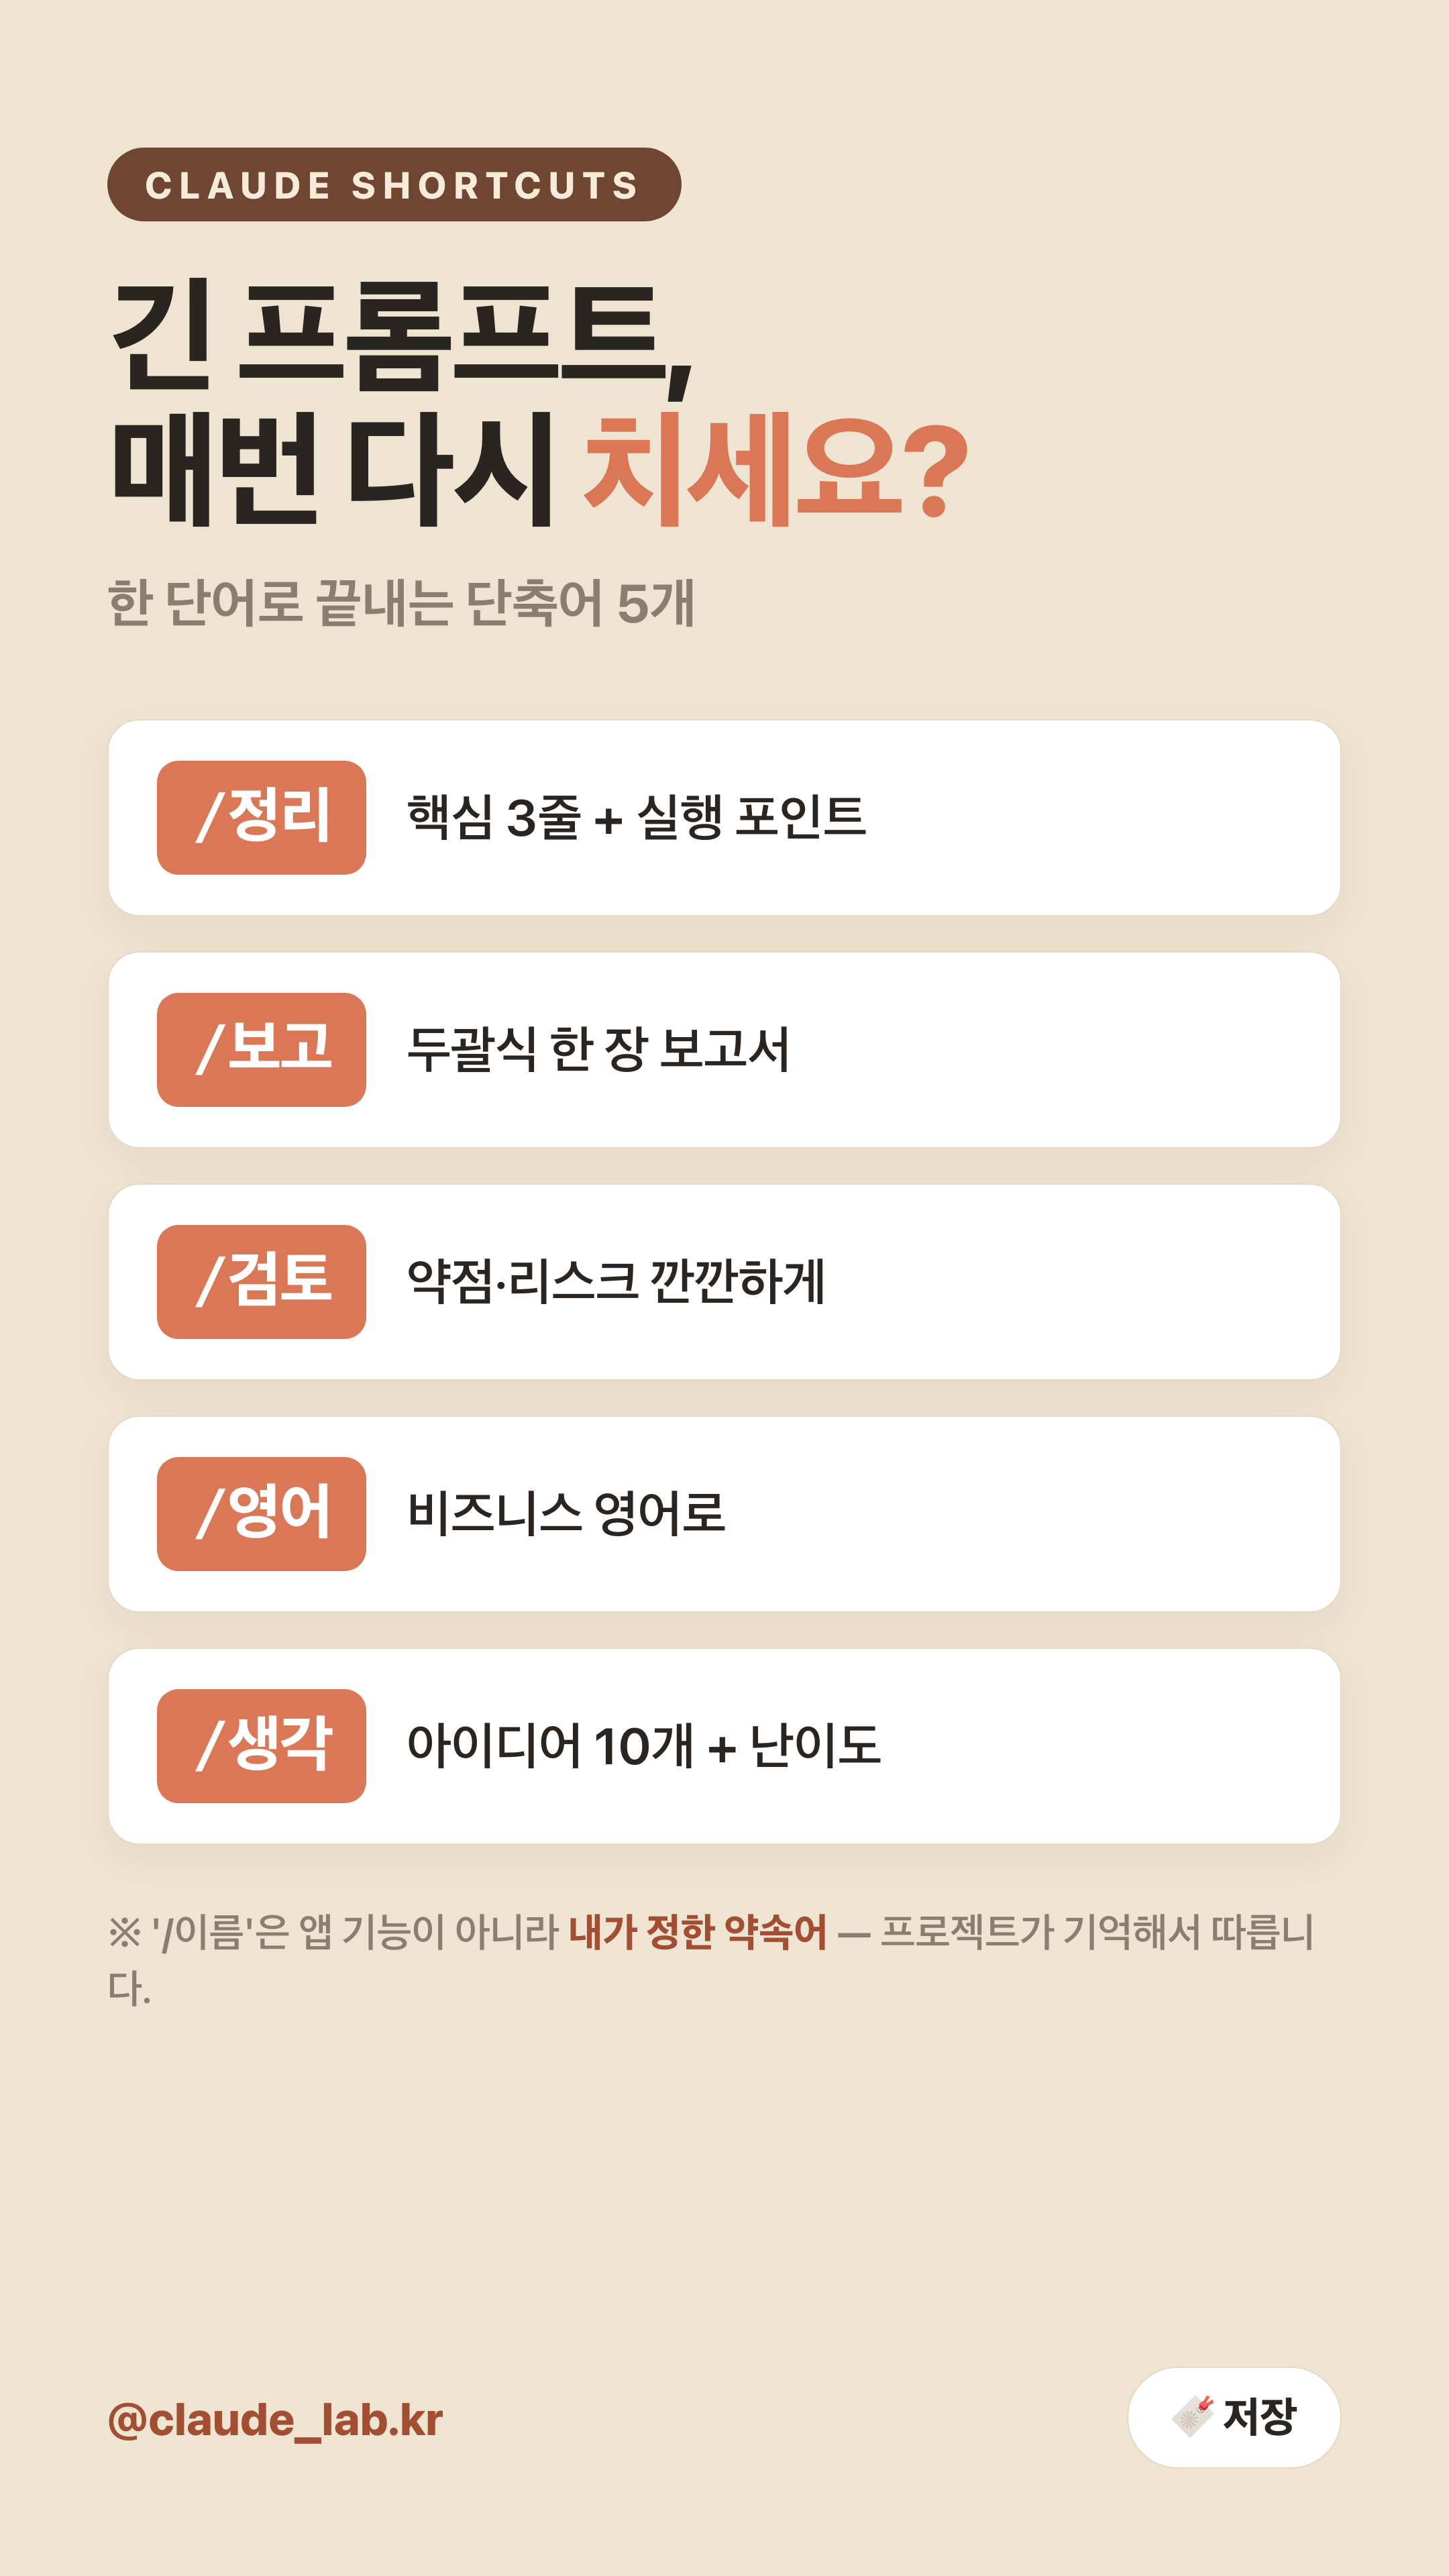
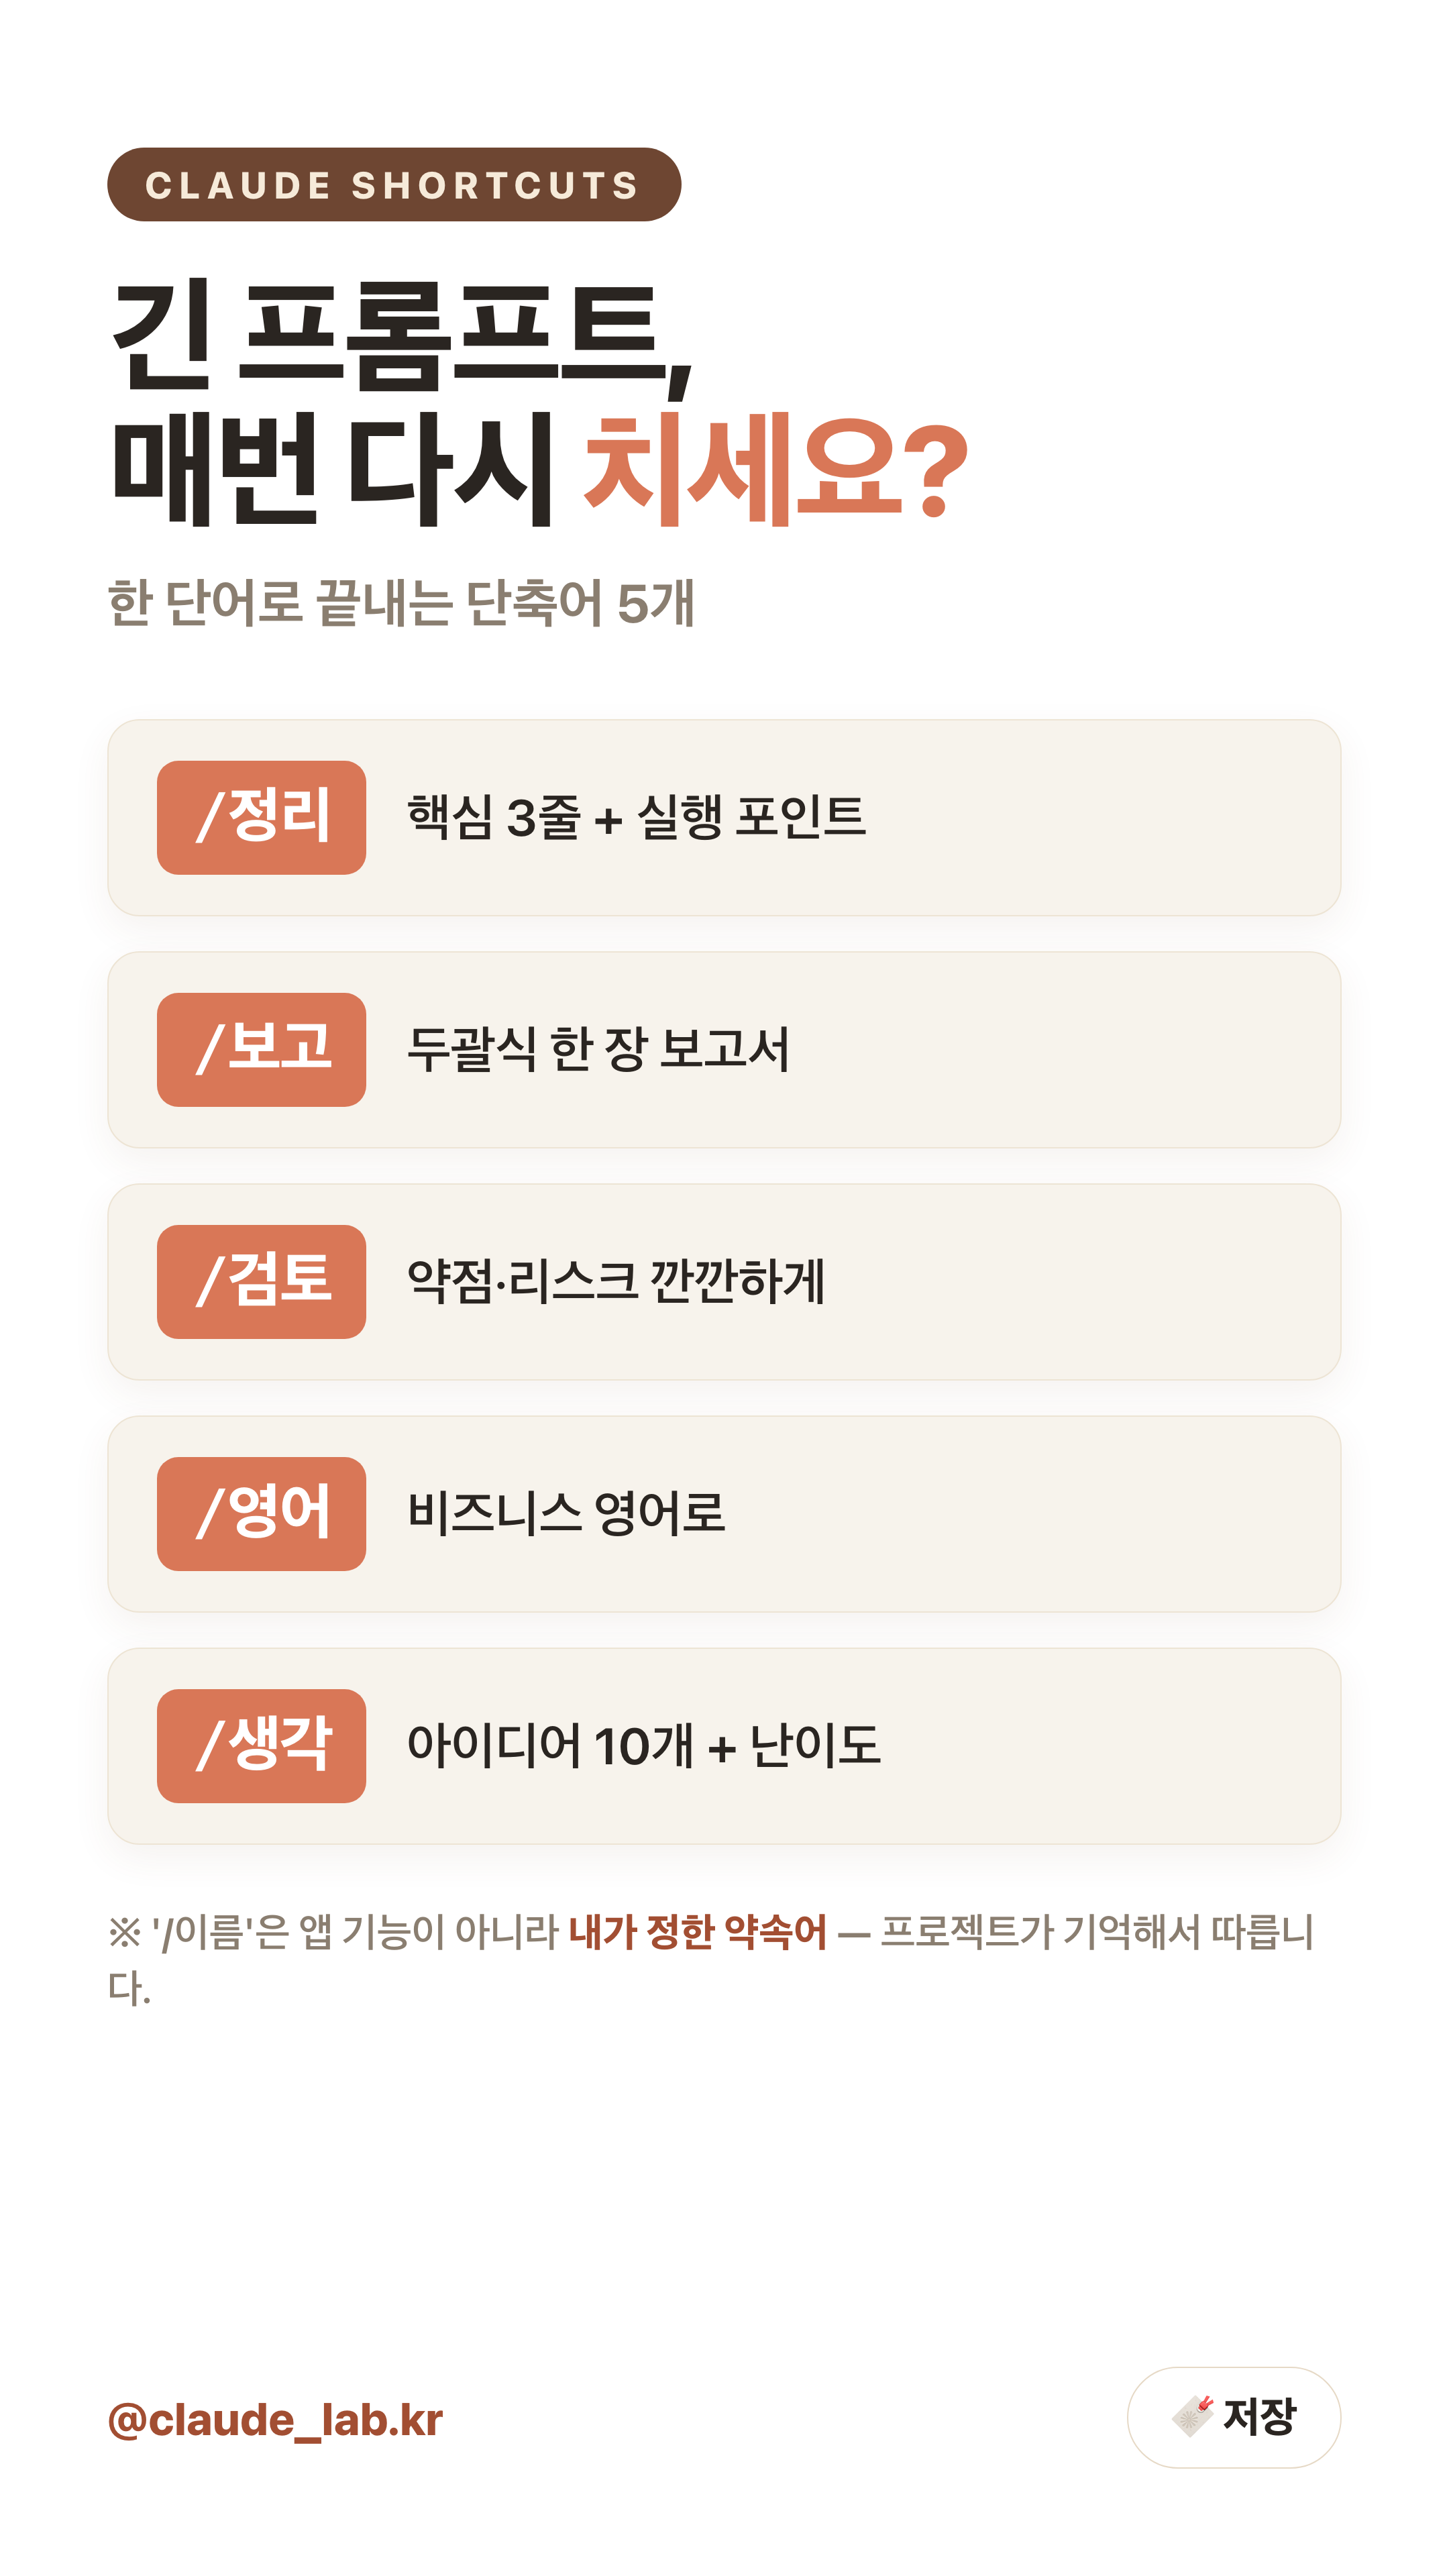
02 단축어 릴스 흰 배경으로 변경

diff --git a/02_단축어/reel_short.html b/02_단축어/reel_short.html
@@ -1,7 +1,7 @@
 <!DOCTYPE html>
 <html lang="ko"><head><meta charset="UTF-8"><style>
   :root{--clay:#D97757;--clay-deep:#A24E32;--brown:#6E4632;--ink:#2A2521;--muted:#8A7E70;
-        --bg:#EFE4D2;--card:#FFFFFF;--line:#E6D9C6;
+        --bg:#FFFFFF;--card:#FFFFFF;--line:#E6D9C6;
         --sans:-apple-system,BlinkMacSystemFont,"Apple SD Gothic Neo","Helvetica Neue",Arial,sans-serif;
         --mono:"SF Mono",ui-monospace,Menlo,Consolas,monospace;}
   *{margin:0;padding:0;box-sizing:border-box;font-family:var(--sans);-webkit-font-smoothing:antialiased;}
@@ -11,7 +11,7 @@
   h1 .c{color:var(--clay);}
   .sub{font-size:40px;font-weight:700;color:var(--muted);margin-top:26px;}
   .list{margin-top:60px;display:flex;flex-direction:column;gap:26px;}
-  .row{display:flex;align-items:center;gap:30px;background:var(--card);border:1.5px solid var(--line);border-radius:24px;padding:30px 36px;box-shadow:0 10px 28px rgba(120,70,40,.07);}
+  .row{display:flex;align-items:center;gap:30px;background:#F7F3EC;border:1.5px solid #EDE4D4;border-radius:24px;padding:30px 36px;box-shadow:0 10px 28px rgba(120,70,40,.07);}
   .cmd{font-family:var(--mono);font-size:46px;font-weight:800;color:#fff;background:var(--clay);padding:14px 26px;border-radius:16px;flex:0 0 auto;letter-spacing:-1px;}
   .desc{font-size:38px;font-weight:600;color:var(--ink);line-height:1.25;}
   .caveat{margin-top:44px;font-size:30px;font-weight:600;color:var(--muted);line-height:1.4;}